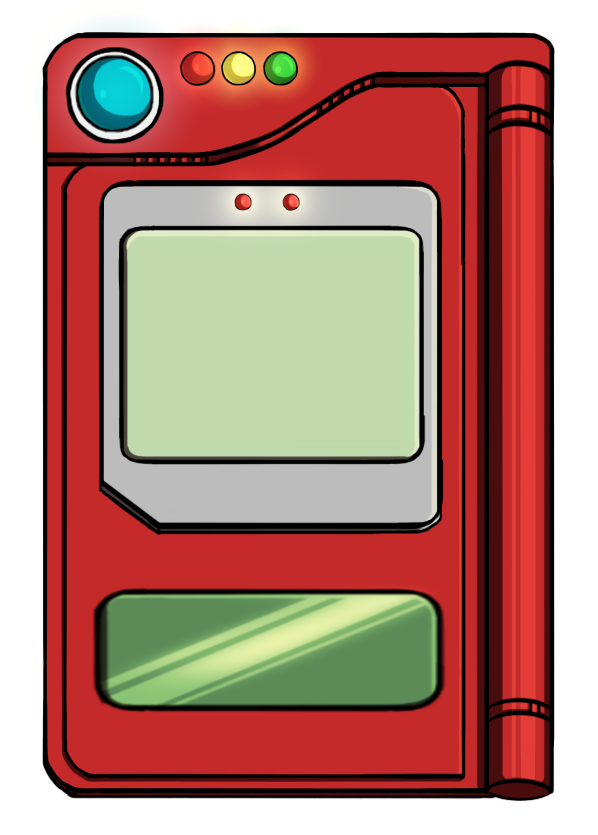
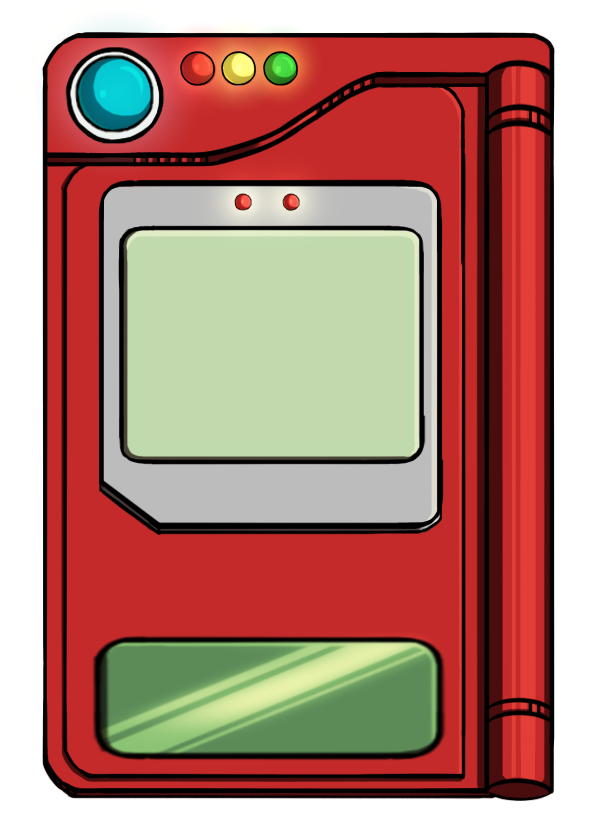
Add files via upload

Changed region(s): [[0.1505, 0.685, 0.7525, 0.9341]]

diff --git a/css/style.css b/css/style.css
@@ -35,31 +35,76 @@ body{
     height: 20%;
 }
 
-/*  -webkit-text-stroke: 0.01px;
-    -webkit-text-stroke-color: rgb(33.7,36,26.2);
-}*/
-
-.pokemon__name  {
+.pokemon_name  {
     position: absolute;
     font-weight: 600;
     top: 56%;
-    right: 30%;
+    right: 33%;
     font-size: clamp(8px, 5vw, 25px);
-    color: #3a444d;
+    color: #2a3035;
     text-transform: capitalize;
 }
 
-.pokemon__number {
-    position: absolute;
-    top: 71.5%;
-    right: 32%;
+.pokemon_number {
+    position: absolute; 
+    width: 49%;
+    top: 76%;
+    left: 21%;
     font-size: clamp(8px, 5vw, 25px);
 }
 
-.pokemon__type {
+/*.pokemon_type {
+    background-color: red;
     position: absolute;
-    top: 75.5%;
-    right: 32%;
+    width: 49%;
+    top: 81.5%;
+    left: 21%;
     font-size: clamp(8px, 5vw, 25px);
     text-transform: capitalize;
+}*/
+
+.form {
+    position: absolute;
+    width: 54%;
+    top: 64.3%;
+    left: 18%;
 }
+
+.input_search {
+    width: 100%;
+    padding: 5%;
+    outline: none;
+    border: 5px inset #2a3035;
+    border-radius: 8px 16px;
+    font-weight: 600;
+    color: black;
+    font-size: clamp(5px, 5vw, 1rem);
+}
+
+.buttons {
+    position: absolute;
+    width: 49%;
+    height: 5.5%;
+    top: 81.7%;
+    left: 21%;
+    transform: translate(10%, 0);
+    display: flex;
+    gap: 20px;
+}
+
+.button {
+    width: 35%;
+    padding: 2%;
+    height: 100%;
+    border: 3px solid #000000;
+    border-radius: 5px 10px;
+    font-size: clamp(5px, 5vw, 0.8rem);
+    font-weight: 600;
+    color: white;
+    background-color: #404041;
+}
+
+.button:active {
+    box-shadow: inset -4px 1.5px 0 #222;
+    font-size: 0.74rem;
+  }

diff --git a/index.html b/index.html
@@ -3,24 +3,37 @@
 <head>
     <meta charset="UTF-8">
     <meta name="viewport" content="width=device-width, initial-scale=1.0">
+
     <title>Pokedex</title>
     <link rel="icon" href="./favicons/favicon-16x16.png">
     <link rel="stylesheet" href="./css/style.css">
+
+    <script defer src="./js/scripts.js"></script>
 </head>
 
 <body>
     <main>
         <img src="https://raw.githubusercontent.com/PokeAPI/sprites/master/sprites/pokemon/versions/generation-v/black-white/animated/133.gif" alt="pokemon" class="pokemon__image"/>
         
-        <h1 class="pokemon__name">
+        <h1 class="pokemon_name">
             eevee
         </h1>
-        <h1 class="pokemon__number">
+        <h1 class="pokemon_number" align="center">
             N°: <span>133</span> <br>
         </h1>
-            <h1 class="pokemon__type">
+        <!--<h1 class="pokemon_type" align="left">
             type: <span>normal</span>
-        </h1>
+        </h1>-->
+
+        <form class="form" align="center">
+            <input 
+            type="search" class="input_search" placeholder="Nome ou número" required />
+        </form>
+
+        <div class="buttons">
+            <button class="button btn-prev">Anterior</button>
+            <button class="button btn-next">Próximo</button>
+        </div>
 
         <img src="./images/pokedex.png" alt="pokedex" class="pokedex"/>
     </main>

diff --git a/js/scripts.js b/js/scripts.js
@@ -1,0 +1,30 @@
+const fetchPokemon = async (pokemon) => {
+    const APIResponse = await fetch(`https://pokeapi.co/api/v2/pokemon/${pokemon}`);
+  
+    if (APIResponse.status === 200) {
+      const data = await APIResponse.json();
+      return data;
+    }
+  }
+
+  const renderPokemon = async (pokemon) => {
+
+    pokemonName.innerHTML = 'Buscando...';
+    pokemonNumber.innerHTML = '';
+  
+    const data = await fetchPokemon(pokemon);
+  
+    if (data) {
+      pokemonImage.style.display = 'block';
+      pokemonName.innerHTML = data.name;
+      pokemonNumber.innerHTML = data.id;
+      pokemonImage.src = data['sprites']['versions']['generation-v']['black-white']['animated']['front_default'];
+      input.value = '';
+      searchPokemon = data.id;
+    } else {
+      pokemonImage.style.display = 'none';
+      pokemonName.innerHTML = 'Nenhum pokemon encontrado';
+      pokemonNumber.innerHTML = '';
+    }
+  }
+  
